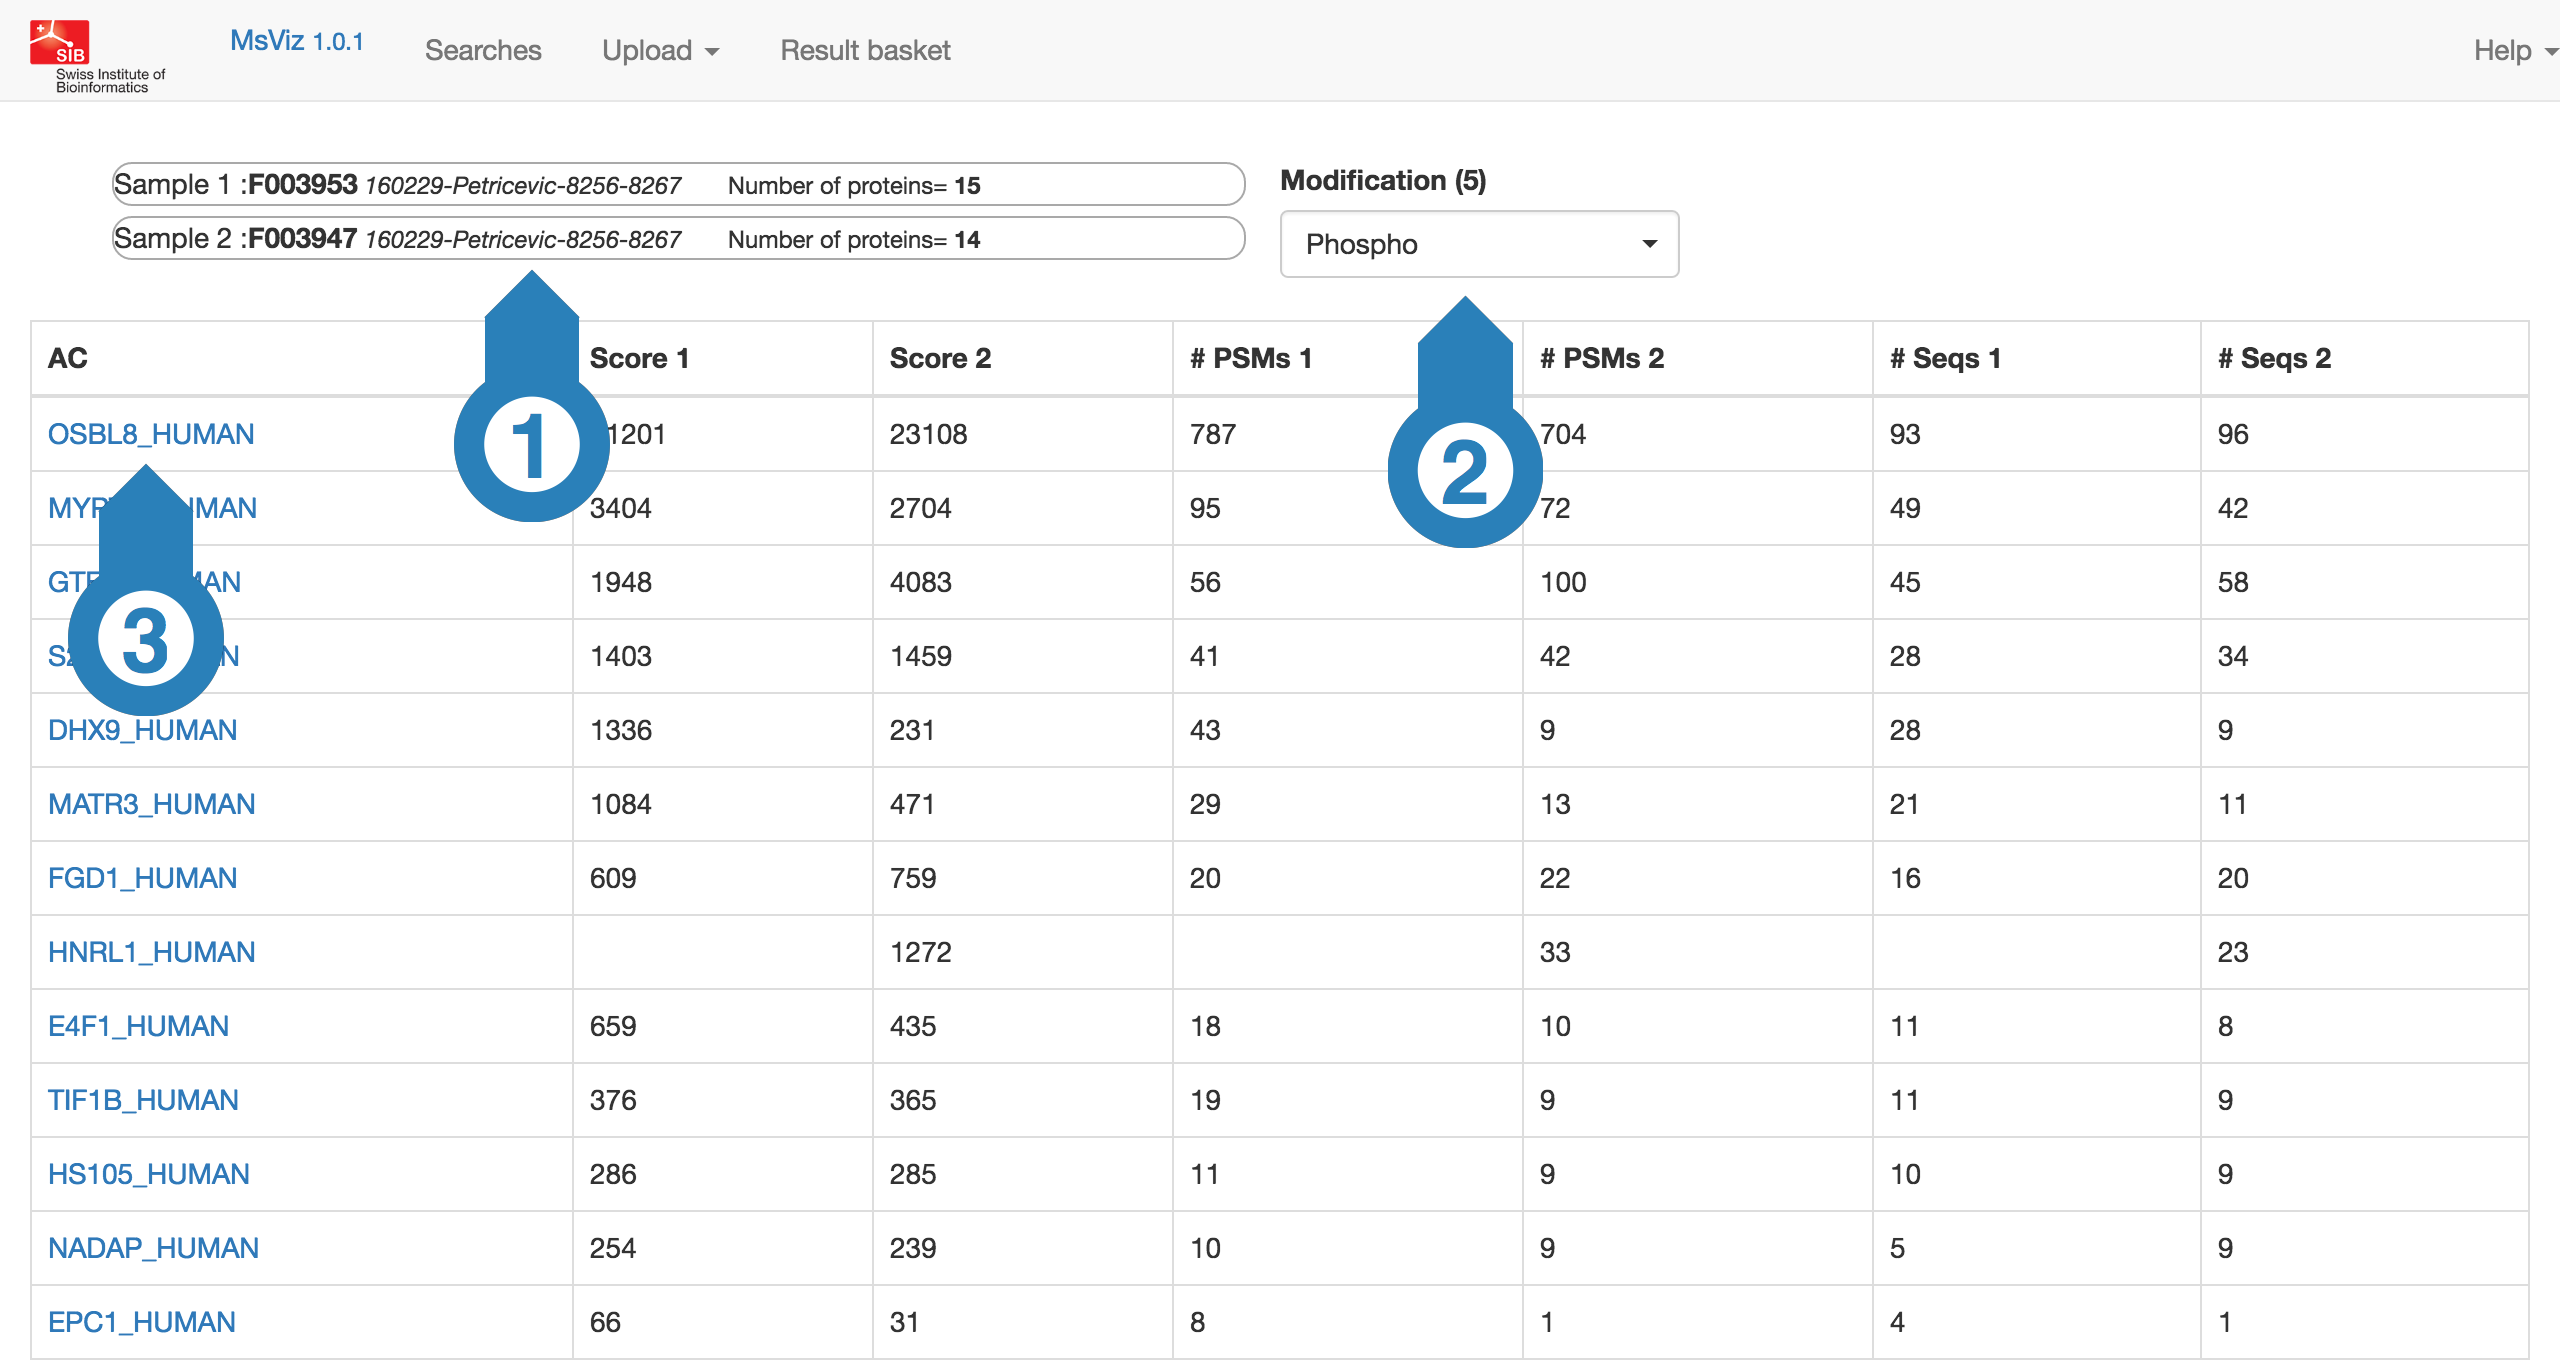
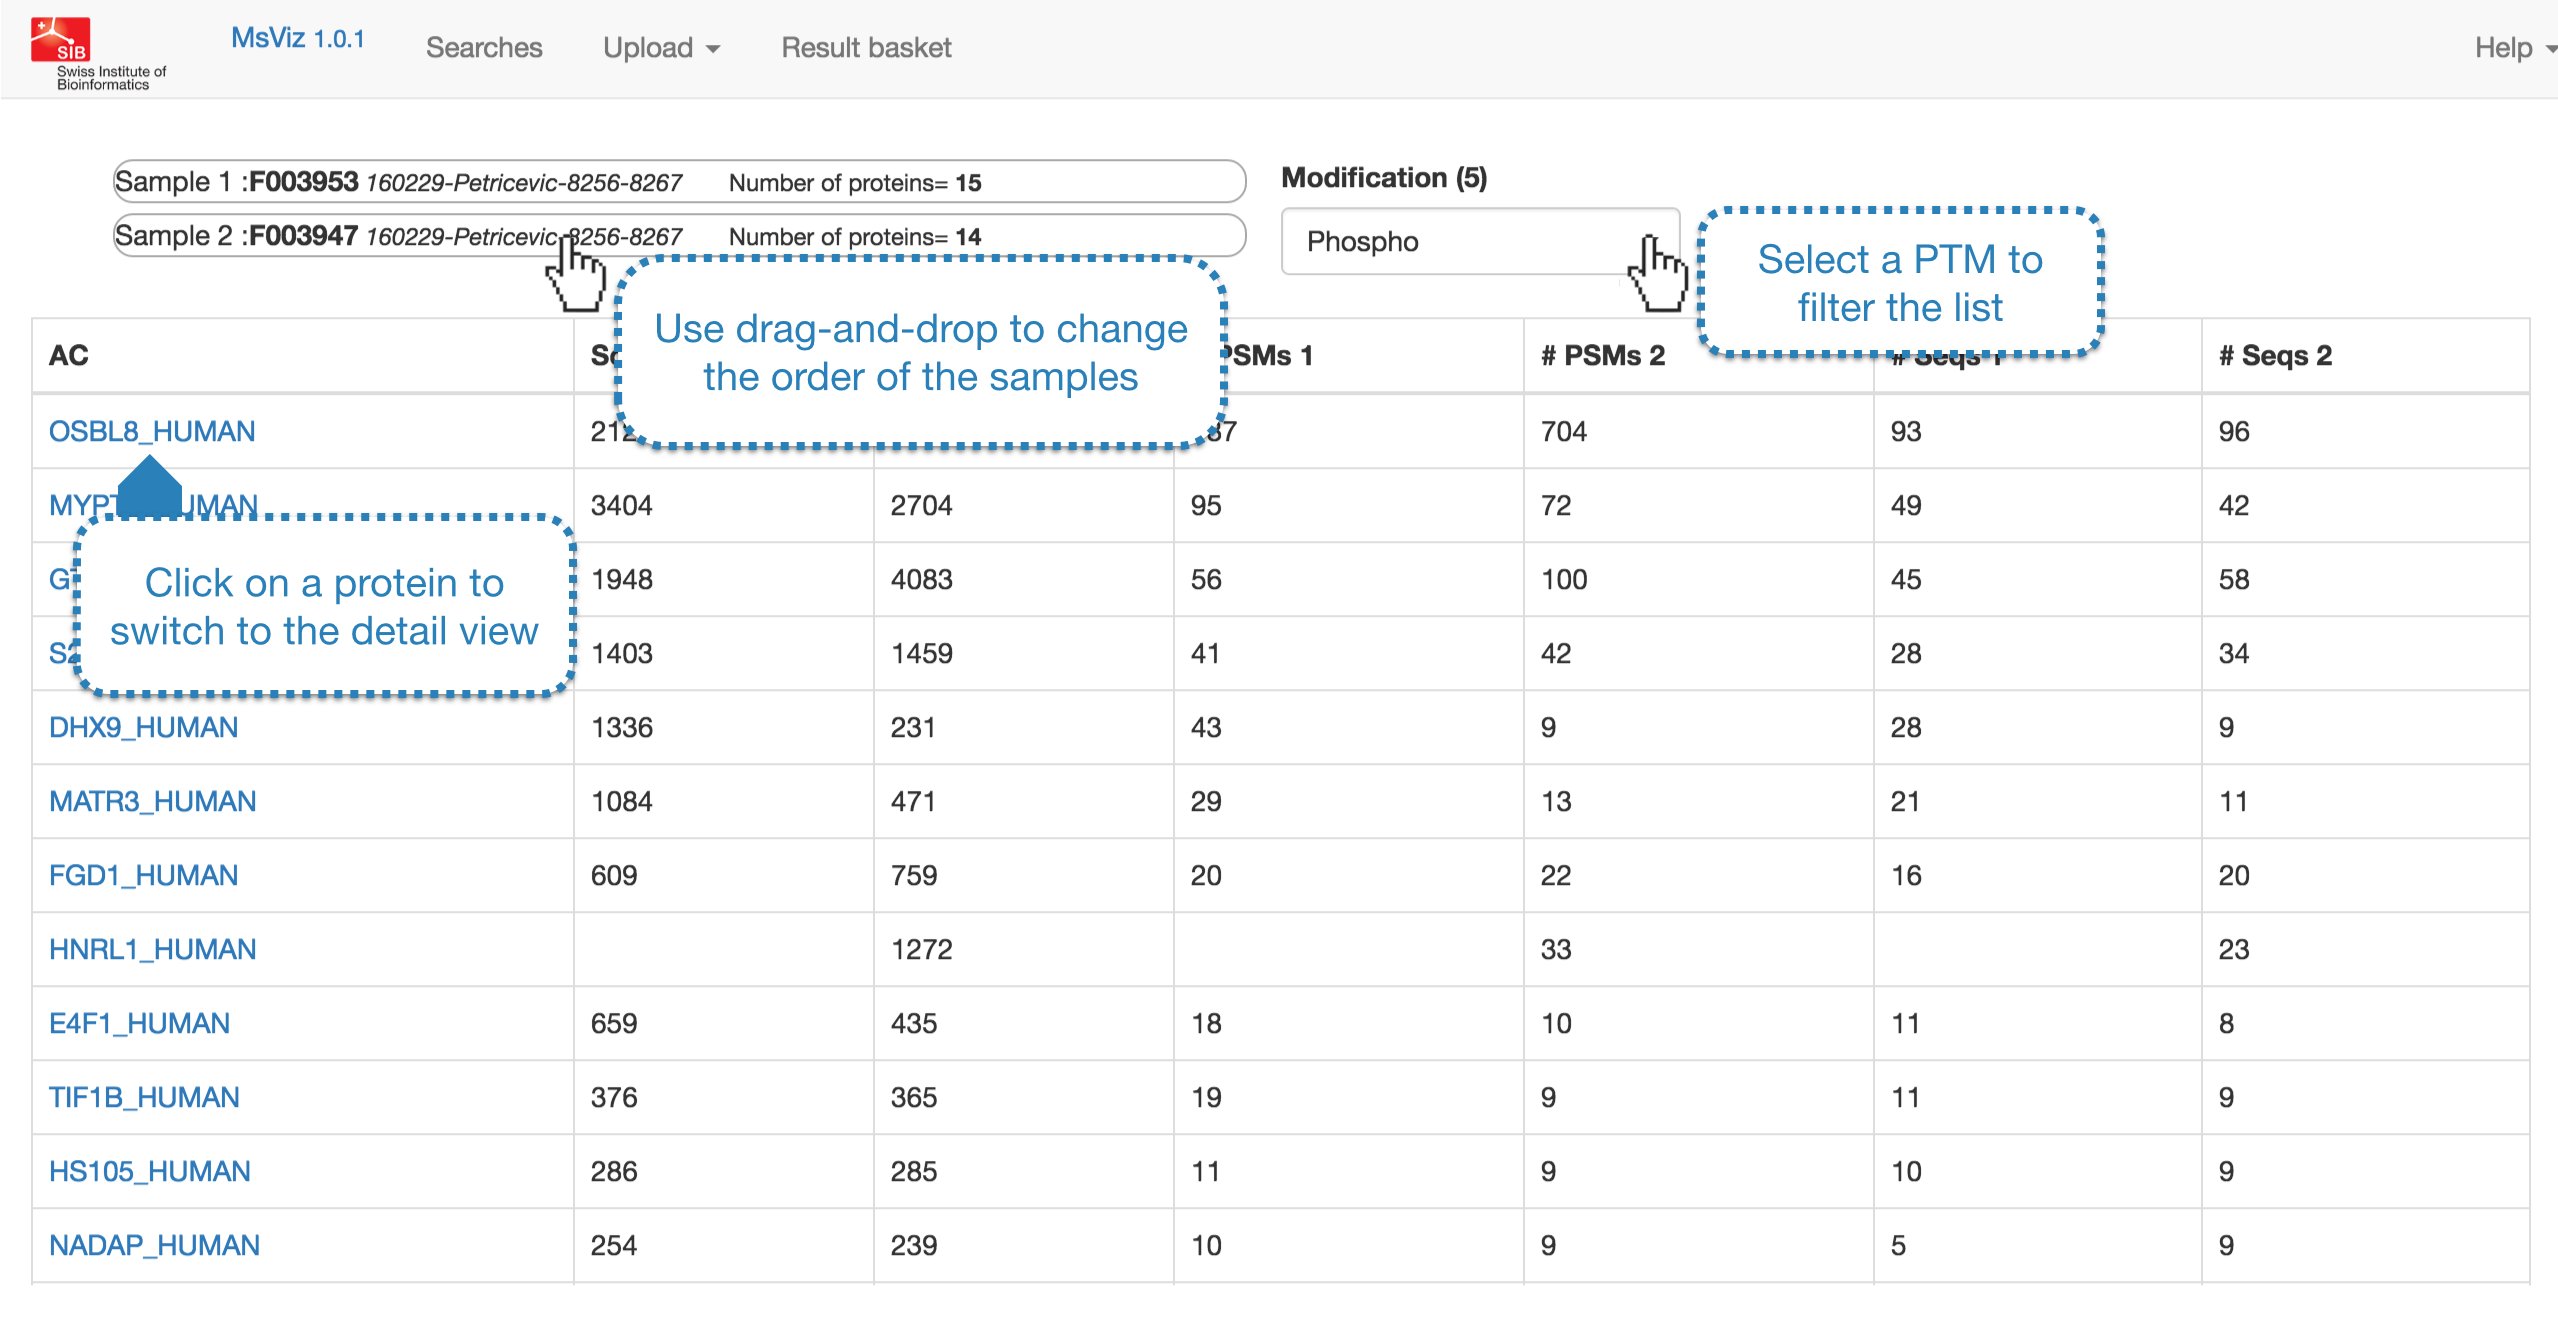
added new images and some doc

diff --git a/src/usage.rst b/src/usage.rst
@@ -10,7 +10,7 @@ Users' manual
    :width:  100%
    :alt: Main window
 
-1.  :ref:`searches`: investigate or delete existing data.
+1.  :ref:`searches`: compare or delete existing data.
 2.  :ref:`uploads`: upload new datasets or databases.
 3.  Result basket: look at data you added to your result basket.
 
@@ -32,16 +32,66 @@ Select protein
    :width:  100%
    :alt: Select proteins
 
-1. The order of the searches can be re-arranged by simple drag-and-drop. This feature is useful to group together searches which share the same experimental condition. 
+The order of the searches can be re-arranged by simple drag-and-drop. This feature is useful to group together searches which share the same experimental condition. 
 
-2. You can filter the list of proteins by choosing a post translational modification (PTM) of interest. Only the proteins containing this PTM will be kept.
+You can filter the list of proteins by choosing a post translational modification (PTM) of interest. Only the proteins containing this PTM will be kept.
 
-3. Select the protein of interest to look at the Protein coverage.
+Select the protein of interest to look at this protein in more detail. It will open the :ref:`protein_coverage`.
 
-.. _protein_coverage
+.. _protein_coverage:
 
 Protein coverage view
 ......................
 
-hiho
+.. figure:: /images/msviz_protein_coverages.png
+   :width:  100%
+   :alt: Protein coverages
+
+The coverages of the selected samples are shown as green bars. The thikness of the bars correspond to the number of PSM's at a position. 
+
+By moving with the mouse pointer over the graph, you can get more information about the amino acid sequence. By clicking on the green bars you get the :ref:`psm_details` at the selected position. 
+
+Post Translational Modification (PTM) counts
+..............................................
+
+.. figure:: /images/msviz_psm_count.png
+   :width:  100%
+   :alt: PSM counts
+
+By selecting a PTM from the drop-down menu you can see the position of modifications as blue circles. The size of the blue circles corresponds to the number of PSM's containing the selected modification.
+
+On the top you can see labels indicating the modified amino acid (one letter code) together with their position. By clicking on either the labels or the blue circles you get the :ref:`psm_details` at the selected position.
+
+.. figure:: /images/msviz_zoom_region.png
+   :width:  70%
+   :alt: PSM zoom
+
+You can zoom into a region of the graph by seleting an area with your mouse (press left button, selected a region and release the button). The zoom can be reset with a double-click of the left mouse button in any empty area. 
+
+
+.. _psm_details:
+
+Peptide Sepctrum Match (PSM) details
+......................................
+
+.. figure:: /images/msviz_ptms.png
+   :width:  100%
+   :alt: PSM details
+
+Every PSM is represented by a gray line. By moving your mouse over the PSM's you can see a popup showing detail information (scan number, retention time, charge, precursor mass, sequence with modifications, identification and localisation scores). 
+
+On the PSM's you can see the selected PTM's represented by circles: 
+
+- Red circles show the most probable PTM positions. By "most probable" we mean the positions found in the highest ranking PSM.
+
+- Orange circles indicate a conflicting position. This means that this position was found in a lower ranking PSM, which has the same identification score as the highest ranking one.
+
+- Gray circles show PTM positions of lower ranking PSM's.
+
+- Other modifications then the selected one are shown as black bars.
+
+
+
+By clicking on any of the PSM's you open a view to the corresponding spectrum and XIC's. 
+
 

diff --git a/src/about.rst b/src/about.rst
@@ -13,7 +13,7 @@ What is MsViz ?
 * MsViz integrates MS1,MS2 information and identification results in one visual platform.
 * MsViz greatly facilitates manual validation and quantitation of PTMs on specific proteins => significant gains of time for the data analyst.
 * MsViz’s GUI is very intuitive and the tool is easy to learn and use 
-* MSviZ is *NOT* for large scale work nor automated workflows !
+* MSviZ is **NOT** for large scale work nor automated workflows !
 
 
 Motivation

diff --git a/src/acknowledgements.rst b/src/acknowledgements.rst
@@ -2,7 +2,7 @@
 Credits
 -------
 
-**Developer**: Trinidad Martin & Roman Mylonas
+**Developers**: Trinidad Martin & Roman Mylonas
 
 **Supervision**: Ioannis Xenarios
 
